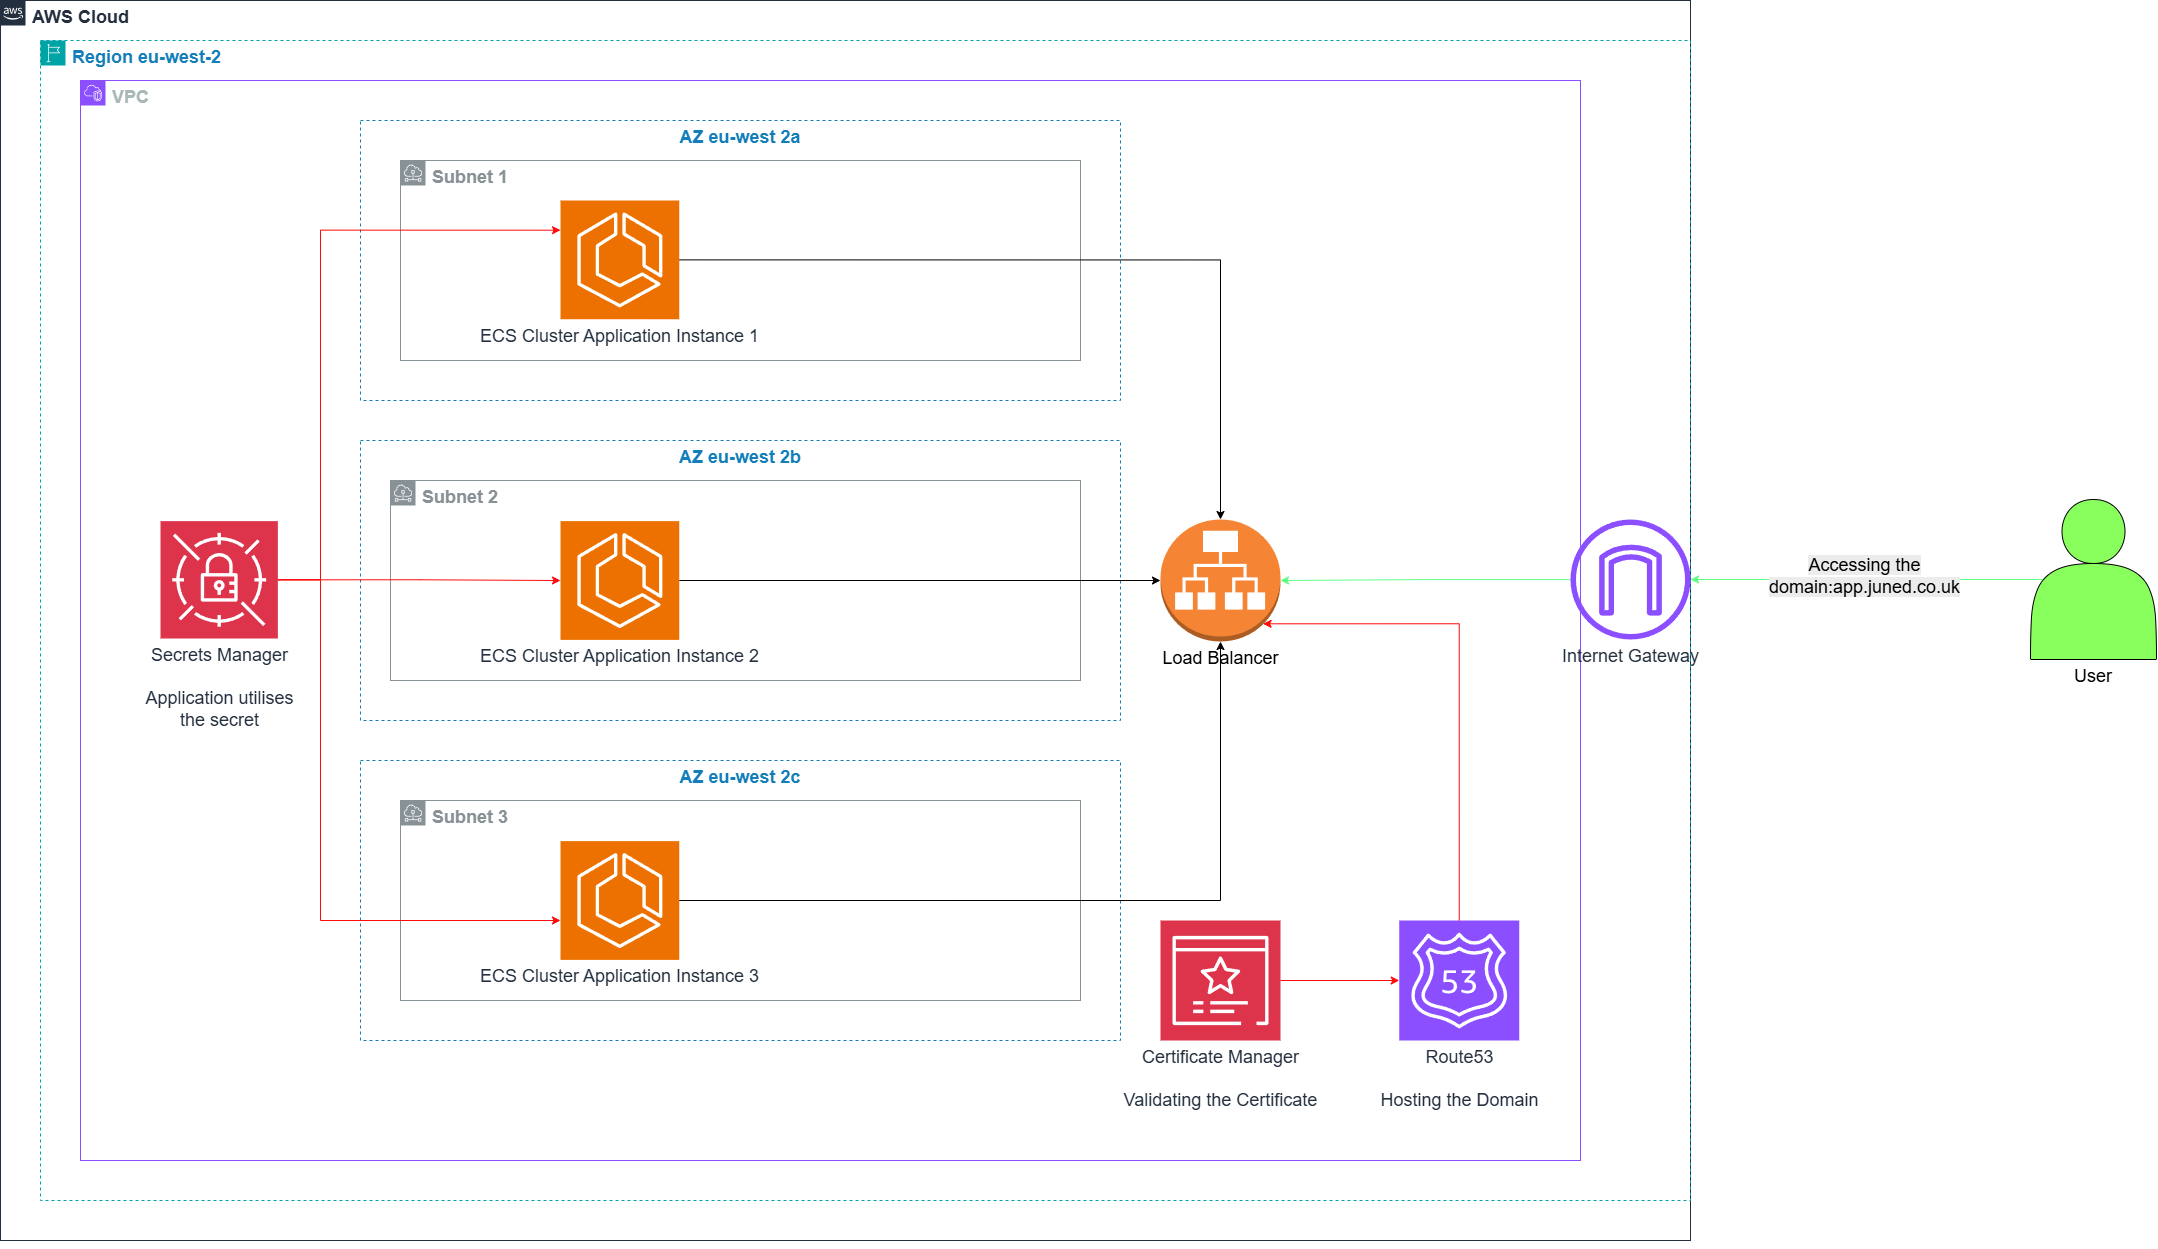
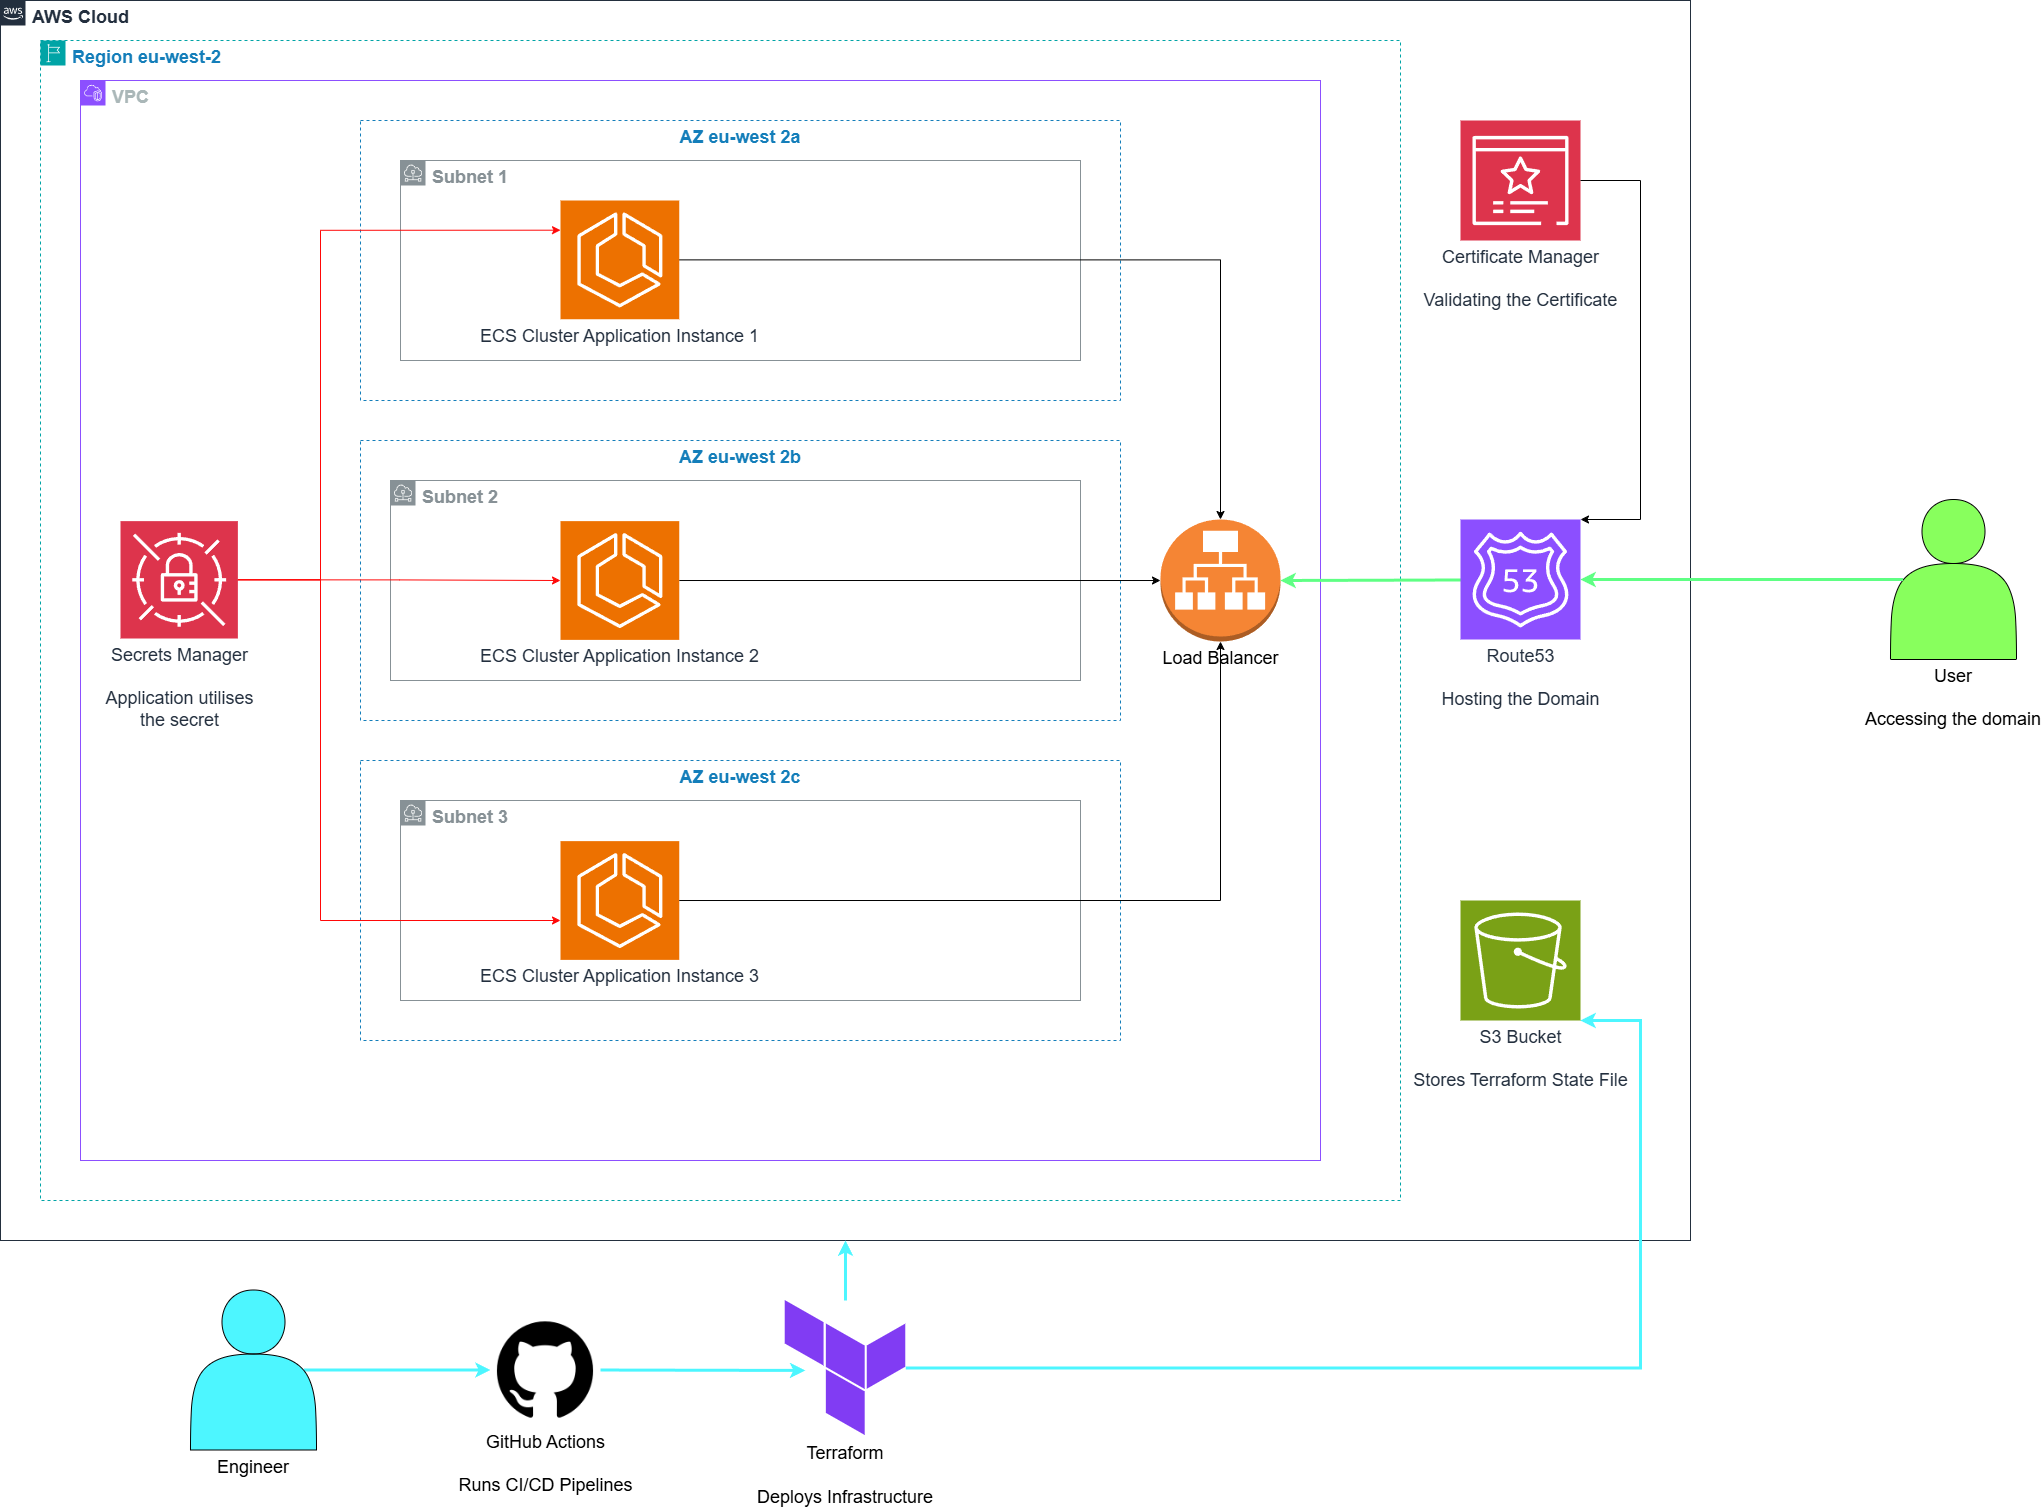
Post presentation work merge (#2)
* update cicd include encryption & state locking

* settings.py organisation

* diagram update and readme.md update

* dockerfile multistage to alpine

* dockerfile multistage to distroless

* dockerfile revert back to slim

* readme numbering update

* readme name update

* readme minor update

* update cicd workflow, cosmetic

* name update

* setting dockerfile to non-root user

* setting dockerfile to non-root user - correcting miss spelt name

* setting dockerfile to non-root user - tody up

* debug turn off

diff --git a/app/digital_journal/settings.py b/app/digital_journal/settings.py
@@ -26,9 +26,17 @@ BASE_DIR = Path(__file__).resolve().parent.parent
 secret_data = get_aws_secret("django/production/key")
 SECRET_KEY = secret_data["DJANGO_SECRET_KEY"]
 
+
+# SECURITY WARNING: don't run with debug turned on in production!
+DEBUG = False
+
+
+# Allow Access
+
 ALLOWED_HOSTS = ['*']
 
 CSRF_TRUSTED_ORIGINS = ['https://app.maajid.co.uk', 'http://app.maajid.co.uk', 'https://sehindemitech.co.uk', 'http://sehindemitech.co.uk', 'https://app.juned.co.uk', 'http://app.juned.co.uk']
+
 
 # Application definition
 
@@ -166,6 +174,3 @@ STATICFILES_DIRS = [
 
 MEDIA_URL = 'media/'
 MEDIA_ROOT = os.path.join(BASE_DIR, 'media')
-
-
-DEBUG = True

diff --git a/README.md b/README.md
@@ -1,13 +1,14 @@
-# Journal App Deployment
+# Journaliser App Deployment
 
-This project automates the deployment of the **Journal App** using **AWS**, **Terraform**, **Docker**, and **CI/CD pipelines**. Originally set up manually using **AWS Console**, the process has been automated to provide a secure, scalable, and streamlined deployment.
+This project automates the deployment of the **Journaliser App** using **AWS**, **Terraform**, **Docker**, and **CI/CD pipelines**. Originally set up manually using **AWS Console**, the process has been automated to provide a secure, scalable, and streamlined deployment.
 
 <br>
 
 ## Overview
 
-The **Journal App** is a containerised Django application deployed on **AWS ECS Fargate**. The deployment process is fully automated using **CI/CD pipeline** to handle Docker image building, security scans, and deployment to AWS through **Terraform**.
+The **Journaliser App** is a containerised Django application deployed on **AWS ECS Fargate**. The deployment process is fully automated using **CI/CD pipeline** to handle Docker image building, security scans, and deployment to AWS through **Terraform**.
 
+<br>
 
 ## Architecture Diagram
 
@@ -42,7 +43,7 @@ The **Journal App** is a containerised Django application deployed on **AWS ECS 
 ./
 ├── app
 │   └── Dockerfile
-├── Terraform
+├── terraform
 │   ├── modules
 │   │   ├── alb
 │   │   ├── ecs
@@ -54,14 +55,15 @@ The **Journal App** is a containerised Django application deployed on **AWS ECS 
 └── .github
     └── workflows
         ├── DockerBuild&Deploy.yml
+        ├── TerraformBuild.yml
         ├── TerraformApply.yml
         └── TerraformDestroy.yml
 ```
 
-- **Docker Files**:
+- **Docker Files** (`app/`):
     - **Dockerfile**: Defines the app's containerised environment.
 
-- **Terraform Files**:
+- **Terraform Files** (`terraform/`):
     - **modules/alb**: Sets up the **Application Load Balancer** (ALB).
     - **modules/ecs**: Configures the **ECS Cluster** and **Fargate service**.
     - **modules/network**: Provisions **Security Groups**, **VPC**, and **Subnets**.
@@ -75,23 +77,33 @@ The **Journal App** is a containerised Django application deployed on **AWS ECS 
         - Builds and pushes the Docker image to **ECR**.
         - Runs **Trivy** to scan the image for vulnerabilities.
     
-    - **TerraformApply.yml**:
-        - Applies the Terraform configuration to provision AWS resources.
+    - **TerraformPlan.yml**:
+        - Previews the Terraform configuration to provision AWS resources.
         - Runs **TFLint** and **Checkov** for security and syntax checks.
     
-    - **TerraformDestroy.yml**: Destroys Terraform-managed infrastructure.
+    - **TerraformApply.yml**:
+        - Applies the Terraform configuration to provision AWS resources.
+    
+    - **TerraformDestroy.yml**:
+        - Destroys Terraform-managed infrastructure.
 
 <br>
 
-## How to Set Up AWS Secrets Manager
+## Prerequisites
 
-This secret must be created manually in Secrets Manager prior to deploying the Django application. During deployment, the Django app retrieves this secret, which it then uses for the entire duration that the application remains active.
+### 1. AWS Secrets Manager Setup
+
+Before deploying the Django application, you must manually create a secret in AWS Secrets Manager. The Django app will automatically retrieve this secret during deployment and use it for the entire duration the application is active.
 
 Please use the following values for when you set up your secret:
-- Secret Name: django/production/key
-- Secret's Key: DJANGO_SECRET_KEY
-- Secret's Value: <place any value here>
 
+- **Secret Name:** `django/production/key`
+- **Secret Key:** `DJANGO_SECRET_KEY`
+- **Secret Value:** `<place any value here>`
+
+### 2. Whitelisting Your Domain
+
+To allow users to access the application via your domain, add your domain to the `CSRF_TRUSTED_ORIGINS` section within `app/digital_journal/settings.py`.
 
 <br>
 
@@ -103,14 +115,18 @@ The deployment process is fully automated via GitHub Actions:
     - Builds the Docker image.
     - Runs **Trivy** to scan for critical vulnerabilities before pushing to ECR.
     - Pushes the image to **Amazon ECR**.
-    
-2. **Terraform Apply** (`TerraformApply.yml`):
-    - Initialises and applies the Terraform configuration.
-    - Provisions the necessary AWS resources (ECS, ALB, Route 53, VPC, Security Groups).
+
+2. **Terraform Plan** (`TerraformPlan.yml`):
+    - Initialises the Terraform directory.
+    - Previews the necessary AWS resources (ECS, ALB, Route 53, VPC, Security Groups).
     - Runs **TFLint** to validate Terraform syntax and best practices.
-    - Runs **Checkov** to scan for security issues in Terraform code.
+    - Runs **Checkov** to scan for security issues within Terraform code.
     
-3. **Terraform Destroy** (`TerraformDestroy.yml`):
+3. **Terraform Apply** (`TerraformApply.yml`):
+    - Initialises the Terraform directory.
+    - Provisions the necessary AWS resources (ECS, ALB, Route 53, VPC, Security Groups).
+    
+4. **Terraform Destroy** (`TerraformDestroy.yml`):
     - Destroys all Terraform-managed resources when necessary.
 
 <br>
